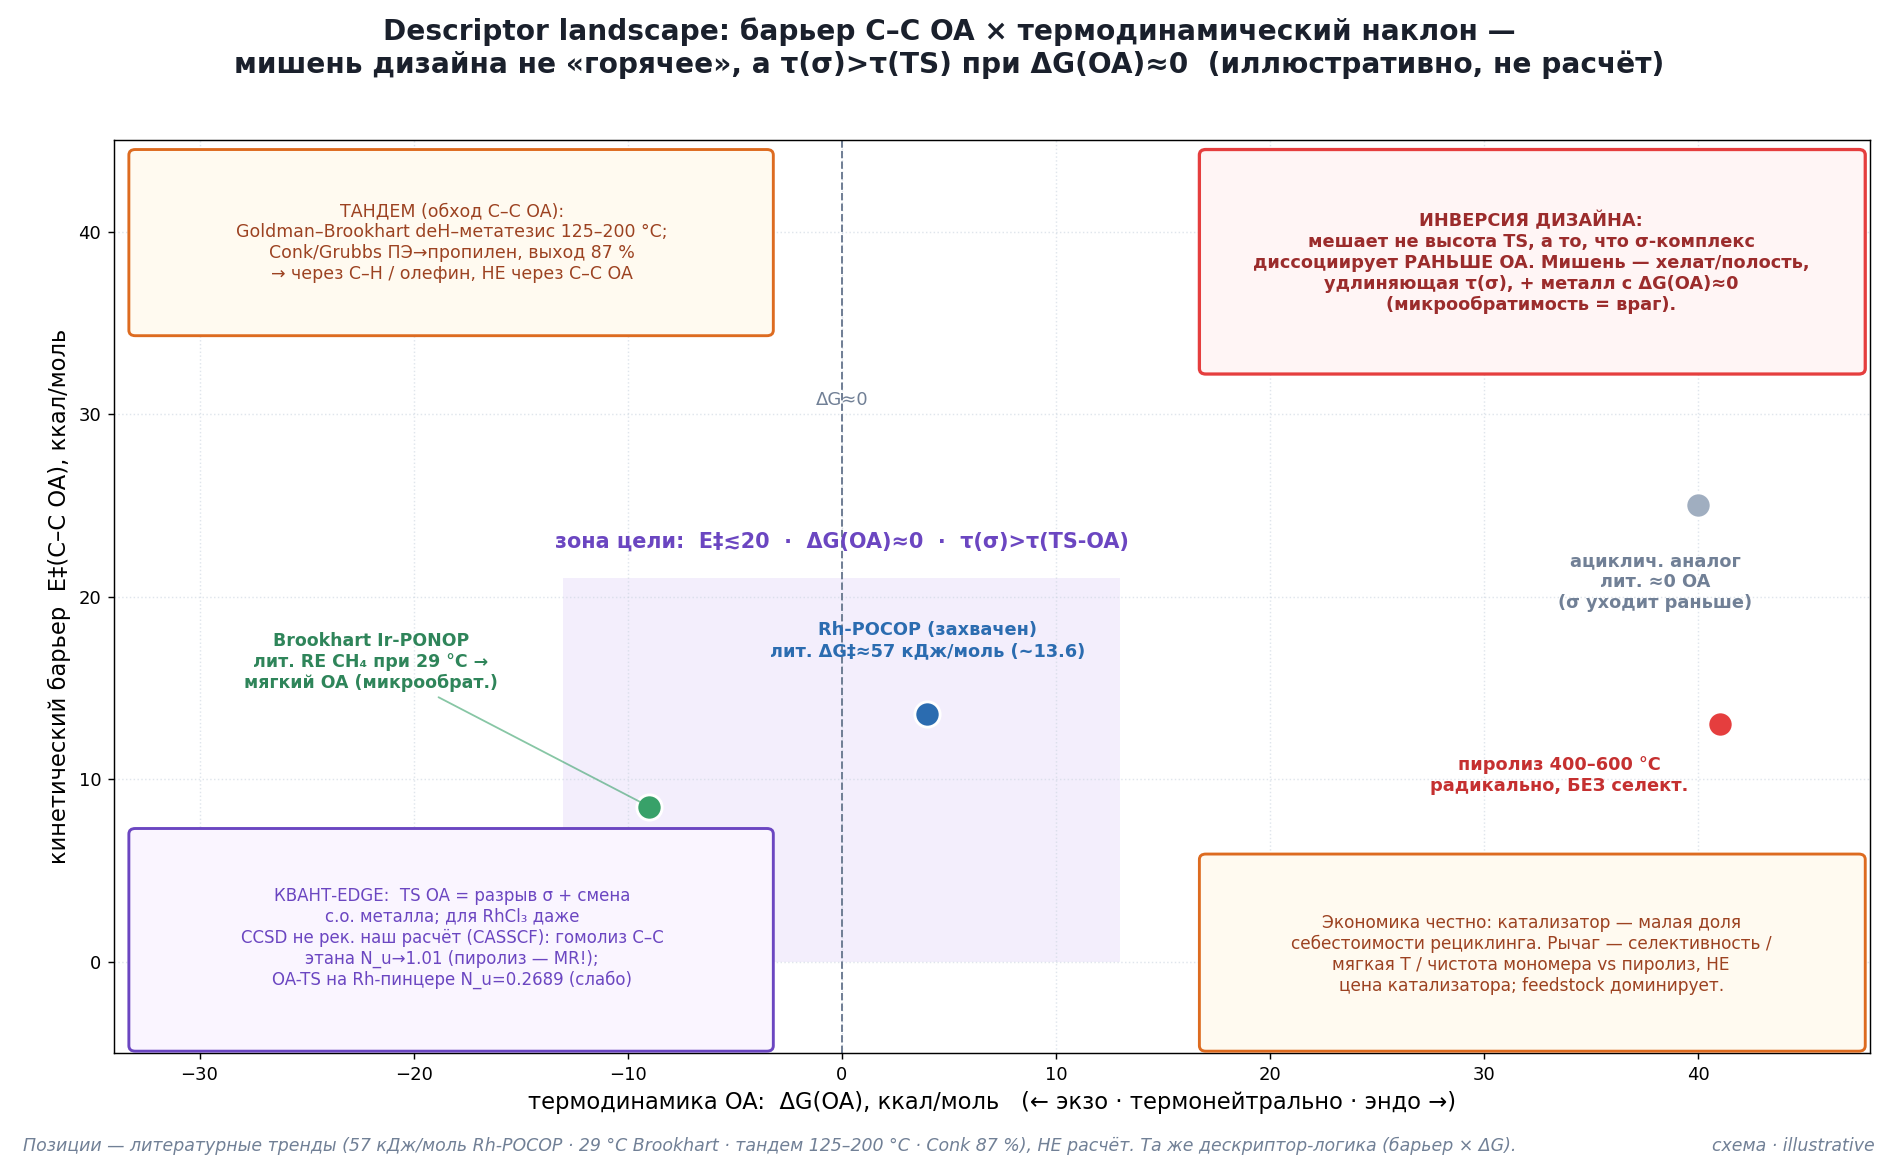
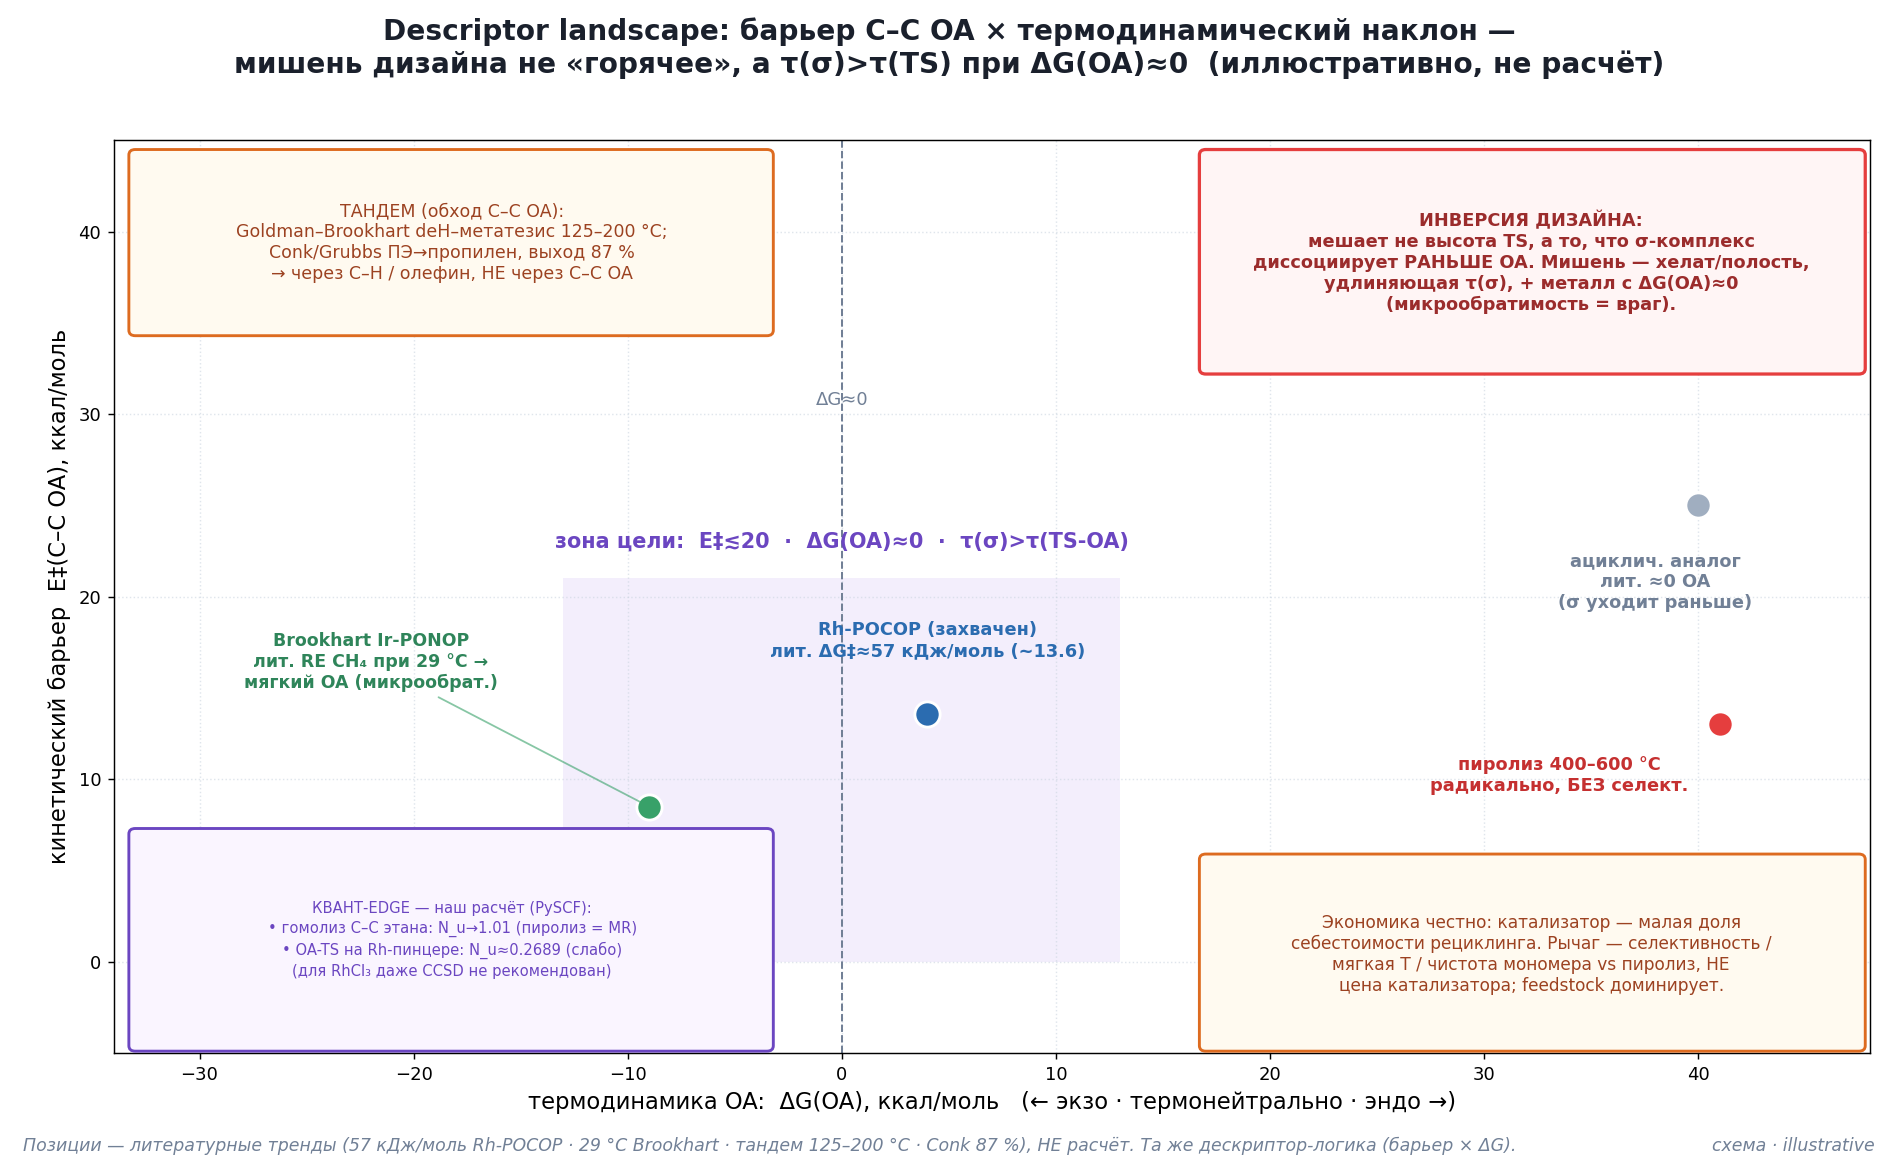
feat: cc-activation-recycling — Stage 4 quantum-correction backend
Add run_quantum_correction (static-correlation differential corr(TS)-corr(sigma)
as the multireference correction to the OA barrier; CASCI is exact-in-space).
Converged CASSCF via CASCI-natorb start + 200 macro. Descriptor figure surfaces
the Stage-4 result. Diary entry follows once the compute lands.

Changed region(s): [[0.1554, 0.7385, 0.3419, 0.8615]]

diff --git a/routes/cc_activation_recycling_compute.py b/routes/cc_activation_recycling_compute.py
@@ -117,12 +117,22 @@ def casci_noon(mf, ao_labels=('Rh 4d','C 2p'), ncas=9, nelecas=12, thr=0.02):
     return dict(e_cas=float(mc.e_tot), noon=[round(float(x),4) for x in occ],
                 n_u=round(unpaired(occ),4), ncas=ncas, nelecas=nelecas, mc=mc)
 
-def casscf_noon(mf, ao_labels=('Rh 4d','C 2p'), ncas=9, nelecas=12, thr=0.02, macro=40):
-    """AVAS -> orbital-optimized CASSCF NOON (reliable N_u; CASCI-on-AVAS under-counts here)."""
+def casscf_noon(mf, ao_labels=('Rh 4d','C 2p'), ncas=9, nelecas=12, thr=0.02, macro=200):
+    """AVAS -> orbital-optimized CASSCF NOON (reliable N_u; CASCI-on-AVAS under-counts here).
+    A CASCI natural-orbital start + tighter macro loop fixes the slow convergence caused by
+    the near-doubly-occupied (dead) AVAS orbitals (ill-conditioned orbital Hessian)."""
     _, _, orbs = avas.avas(mf, list(ao_labels), threshold=thr, canonicalize=True)
-    mc = mcscf.CASSCF(mf, ncas, nelecas)       # non-DF: proven to converge (~300 s) here
-    mc.max_cycle_macro = macro; mc.fix_spin_(ss=0)
-    mc.kernel(orbs)
+    # CASCI natural-orbital initial guess -> much better-conditioned CASSCF start
+    mci = mcscf.CASCI(mf, ncas, nelecas); mci.fix_spin_(ss=0); mci.kernel(orbs)
+    try:
+        mo_no = mci.cas_natorb()[0]
+    except Exception:
+        mo_no = orbs
+    mc = mcscf.CASSCF(mf, ncas, nelecas)
+    mc.max_cycle_macro = macro
+    mc.conv_tol = 1e-8; mc.conv_tol_grad = 5e-5
+    mc.fix_spin_(ss=0)
+    mc.kernel(mo_no)
     dm1 = mc.fcisolver.make_rdm1(mc.ci, ncas, nelecas)
     occ = np.sort(np.linalg.eigvalsh(dm1))[::-1]
     return dict(e_cas=float(mc.e_tot), noon=[round(float(x),4) for x in occ],
@@ -319,6 +329,44 @@ def run_thermo():
               f'({out[label]["sign"]})', flush=True)
     return out
 
+def run_quantum_correction():
+    """[F] Stage 4 'Квантовая поправка': the multireference (static-correlation) correction to
+    the C-C OA energetics. corr_static = E_CASCI - E_HF in the AVAS(12e,9o) space (CASCI is
+    EXACT-in-space -> no convergence issue, robust to geometry). The correction to the BARRIER
+    is the DIFFERENTIAL corr(TS) - corr(sigma): the error a single determinant (HF/DFT) makes in
+    the barrier. Small differential => static correlation cancels in the barrier => single-ref
+    DFT barrier is reliable. Also reports the now-converged CASSCF N_u (CASCI-natorb start)."""
+    print('=== [F] Stage-4 quantum (MR) correction: static-corr differential ===', flush=True)
+    geoms = [('sigma', 1.54, 2.45), ('OA-TS', 1.98, 2.16), ('product', 2.75, 2.05)]
+    rows = []
+    for tag, dCC, rhC in geoms:
+        mol = mol_of(build_metal(dCC, rhC), charge=1); mf = rhf(mol)
+        ci = casci_noon(mf)
+        try:
+            scf = casscf_noon(mf)
+        except Exception as e:
+            scf = dict(e_cas=None, n_u=None, converged=False, err=repr(e))
+        corr = (ci['e_cas'] - mf.e_tot) * H2KCAL
+        rows.append(dict(tag=tag, dCC=dCC, e_hf=float(mf.e_tot), e_casci=ci['e_cas'],
+                         e_casscf=scf.get('e_cas'), n_u_casci=ci['n_u'],
+                         n_u_casscf=scf.get('n_u'), casscf_conv=scf.get('converged'),
+                         corr_static_kcal=round(corr, 2)))
+        print(f'  [{tag:7s}] N_u(CASSCF)={scf.get("n_u")} conv={scf.get("converged")} '
+              f'corr_static(CASCI-HF)={corr:.2f} kcal/mol', flush=True)
+    by = {r['tag']: r for r in rows}
+    dcorr = by['OA-TS']['corr_static_kcal'] - by['sigma']['corr_static_kcal']
+    out = dict(rows=rows,
+               corr_sigma_kcal=by['sigma']['corr_static_kcal'],
+               corr_TS_kcal=by['OA-TS']['corr_static_kcal'],
+               corr_product_kcal=by['product']['corr_static_kcal'],
+               dcorr_barrier_kcal=round(dcorr, 2),
+               negligible=bool(abs(dcorr) < 3.0),
+               Nu_sigma_conv=by['sigma']['n_u_casscf'], Nu_TS_conv=by['OA-TS']['n_u_casscf'],
+               Nu_product_conv=by['product']['n_u_casscf'],
+               casscf_converged=all(r['casscf_conv'] for r in rows))
+    print('STAGE4:', json.dumps(out, ensure_ascii=False), flush=True)
+    return out
+
 # ----------------------------------------------------------------------------------
 if __name__ == '__main__':
     R = {'meta': dict(model='[Rh(PH3)2(CH3)2]+ <-> [Rh(PH3)2(C2H6)]+  (Rh d6<->d8)',
@@ -362,6 +410,8 @@ if __name__ == '__main__':
         R['thermo'] = run_thermo()
     if stage in ('all','D'):
         R['vqe_poc'] = run_vqe_poc()
+    if stage in ('all','F'):
+        R['quantum_correction'] = run_quantum_correction()
 
     # merge with any prior results (so staged runs accumulate)
     if os.path.exists(RESULTS):

diff --git a/routes/cc_activation_recycling.py b/routes/cc_activation_recycling.py
@@ -200,17 +200,22 @@ def fig_descriptor():
     # --- QUANTUM-EDGE box (bottom-left): multireference + our measurement ---
     ax.add_patch(FancyBboxPatch((-33, -4.6), 29.5, 11.6, boxstyle='round,pad=0.3',
                  fc='#faf5ff', ec=ACCENT_D, lw=1.6, zorder=4))
-    nu_line = 'NOON/N_u — измеряем (этот проект)'
+    lines = ['КВАНТ-EDGE — наш расчёт (PySCF):']
     if res and 'headline' in res:
         h = res['headline']
         eth = res.get('ethane_curve', [])
         eth_max = max((row.get('nu_66') or 0) for row in eth) if eth else None
-        nu_line = (f"наш расчёт (CASSCF): гомолиз C–C\nэтана N_u→{eth_max:.2f} (пиролиз — MR!);\n"
-                   f"OA-TS на Rh-пинцере N_u={h['N_u_TS']} (слабо)" if eth_max is not None
-                   else f"наш расчёт: N_u(σ)={h['N_u_sigma']}→N_u(TS)={h['N_u_TS']}")
-    ax.text(-18.2, 1.3, 'КВАНТ-EDGE:  TS OA = разрыв σ + смена\nс.о. металла; для RhCl₃ даже\n'
-            'CCSD не рек. ' + nu_line,
-            fontsize=9.2, color=ACCENT_D, ha='center', va='center', zorder=5)
+        if eth_max is not None:
+            lines.append(f'• гомолиз C–C этана: N_u→{eth_max:.2f} (пиролиз = MR)')
+        lines.append(f'• OA-TS на Rh-пинцере: N_u≈{h["N_u_TS"]} (слабо)')
+    qc = (res or {}).get('quantum_correction')
+    if qc and qc.get('dcorr_barrier_kcal') is not None:
+        lines.append(f'• поправка к барьеру Δcorr‡≈{qc["dcorr_barrier_kcal"]:+.1f} ккал/моль → мала')
+        lines.append('⇒ для барьера OA DFT достаточен; квант — в гомолизе')
+    else:
+        lines.append('(для RhCl₃ даже CCSD не рекомендован)')
+    ax.text(-18.2, 1.2, '\n'.join(lines),
+            fontsize=8.2, color=ACCENT_D, ha='center', va='center', zorder=5, linespacing=1.4)
 
     # --- ECONOMICS box (bottom-right) ---
     ax.add_patch(FancyBboxPatch((17, -4.6), 30.5, 10.2, boxstyle='round,pad=0.3',
